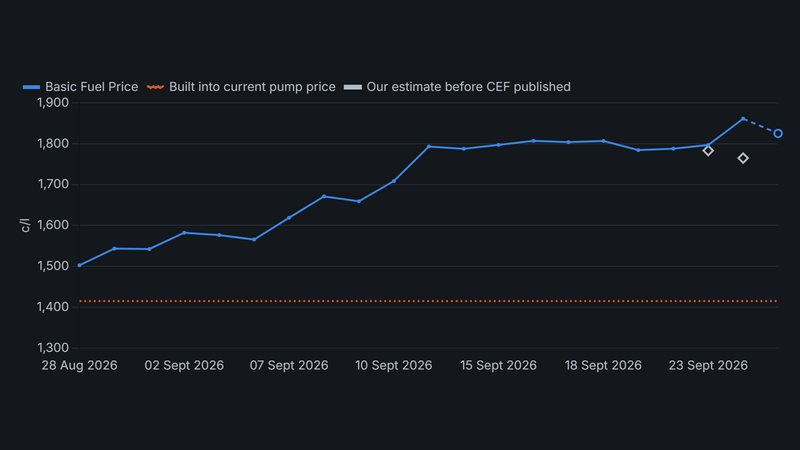
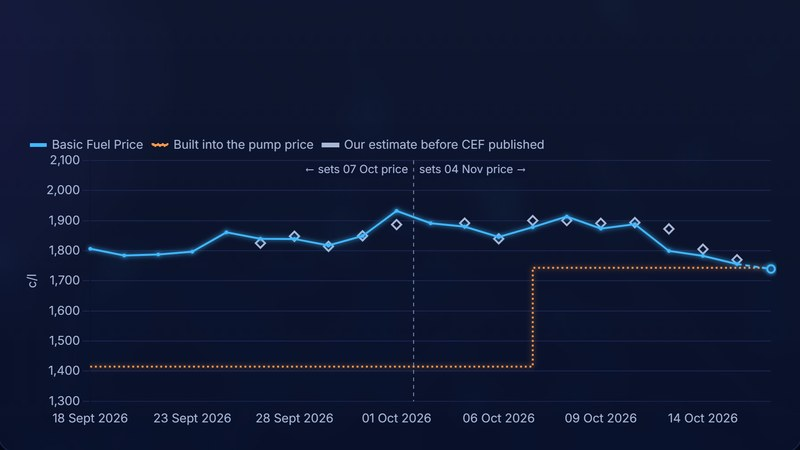
Fuel card: new image in the fuel site's redesigned look
Recaptured the first chart from fuel.psyphin.co.za after its navy,
glowing redesign; alt text now mentions the price built into the pump
price, which the chart shows.

Claude-Session: https://claude.ai/code/session_01SrKBiJbaQpZ1D1r5zsGLX4

diff --git a/projects.js b/projects.js
@@ -16,7 +16,7 @@
 //                 Status tags: green "Actively maintained" / "Endurance testing"; amber "In progress" /
 //                 "Prototyping" / "In testing" / "Re-designing" / "Under construction" / "Scenario testing"; grey "Complete".
 window.PROJECTS = [
-  { kind: "tool", title: "SA Fuel Price Preview", description: "Fuel price predictions for South Africa, so you know what's coming at the pump before the official announcement.", url: "https://fuel.psyphin.co.za/", cta: "View predictions", image: "assets/img/projects/fuel-chart.jpg", imageAlt: "Chart of the daily Basic Fuel Price rising through the review period, with estimated days marked", updated: "Live data, updated hourly", tags: ["Data", "South Africa", { label: "Actively maintained", color: "green" }] },
+  { kind: "tool", title: "SA Fuel Price Preview", description: "Fuel price predictions for South Africa, so you know what's coming at the pump before the official announcement.", url: "https://fuel.psyphin.co.za/", cta: "View predictions", image: "assets/img/projects/fuel-chart.jpg", imageAlt: "Chart of the daily Basic Fuel Price against the price built into the pump price, with estimated days marked", updated: "Live data, updated hourly", tags: ["Data", "South Africa", { label: "Actively maintained", color: "green" }] },
   { kind: "tool", title: "SA Towing Check", description: "Is your car or bakkie plus trailer legal? Checks your licence code, trailer brakes, speed limit and overloading, plus payload and towing ratings, with a source for every rule.", url: "https://towing.psyphin.co.za/", cta: "Check your rig", image: "assets/img/projects/sa-towing-check.jpg", imageAlt: "Side-view diagram of a bakkie towing a trailer, with the mass on each axle and on the tow ball", updated: "Launched 29 Sep 2026", tags: ["Towing", "South Africa", { label: "Actively maintained", color: "green" }] },
   { kind: "tool", title: "4x4 Tyre Pressures", description: "A starting tyre-pressure range for your 4x4's tyres, load and terrain, from tyre-maker load tables and published guidance, with a source for every number. Works offline.", url: "https://tyres.psyphin.co.za/", cta: "Work out pressures", image: "assets/img/projects/sa-tyre-pressures.jpg", imageAlt: "Two 4x4s on the crest of a red sand dune at the Amam Dunes, Northern Cape", updated: "Started 8 Oct 2026", tags: ["4x4", "South Africa", { label: "Actively maintained", color: "green" }] },
   { kind: "tool", title: "Winch Planning and Sizing", description: "How hard your winch has to pull to get you out, what a double or triple line does, and what your winch and battery go through, with a source for every number.", url: "https://winching.psyphin.co.za/", cta: "Size your recovery", image: "assets/img/projects/winch-recovery-sizing.jpg", imageAlt: "Drawing of a 4x4 bogged in mud on a slope, winching itself out with a double line through a snatch block at a tree 15 m away", updated: "Started 11 Sep 2026", tags: ["4x4", "Recovery", { label: "Actively maintained", color: "green" }] },

diff --git a/CLAUDE.md b/CLAUDE.md
@@ -41,7 +41,7 @@ Add **one line** to the array in `projects.js`:
 { title: "My New Thing", description: "What it does in a sentence.", url: "https://example.com", cta: "Open", tags: ["Tag", { label: "Actively maintained", color: "green" }] },
 ```
 
-- `title` and `description` are required; `kind`, `url`, `cta` (button text, default "Open"), `tags`, `image` + `imageAlt` (a 16:9 photo across the top of the card, kept in `assets/img/projects/`) and `updated` (a short grey line above the button, e.g. "Updated 25 Sep 2026") are optional. **Update the `updated` date when a project moves on.** The fuel card's image is a crop of the live site's first chart (captured at a 900 px-wide window, 2x scale, placed on the chart panel's colour), so refresh it now and then. A project with no `url` gets a card with no button (used for projects with no public page, such as a private repo).
+- `title` and `description` are required; `kind`, `url`, `cta` (button text, default "Open"), `tags`, `image` + `imageAlt` (a 16:9 photo across the top of the card, kept in `assets/img/projects/`) and `updated` (a short grey line above the button, e.g. "Updated 25 Sep 2026") are optional. **Update the `updated` date when a project moves on.** The fuel card's image is a crop of the live site's first chart (since 2026-10-18 in the fuel site's navy "deep space" look: captured with headless Chrome at a 900 px-wide window, 2x scale, the panel's heading text hidden, a 16:9 area of the chart panel ending just above its bottom edge, scaled to 800x450), so refresh it now and then. A project with no `url` gets a card with no button (used for projects with no public page, such as a private repo).
 - A tag is a plain string (blue pill), or `{ label, color }` for a coloured pill. Status tags: green for live, finished work that is still kept up to date ("Actively maintained") or built work in its final long-run test ("Endurance testing"); amber for anything still under way ("In progress", "Prototyping", "In testing", "Re-designing", "Under construction", "Scenario testing"); grey for finished work that needs no changes ("Complete"). Current (2026-10-08, the owner's calls): fuel and towing "Actively maintained", DMR hotspot "Endurance testing", SHERP crawler and battery monitor "Prototyping", RC remote "Re-designing", winch sizing and ropes "Under construction", tyre pressures "Scenario testing" (since 2026-10-12), EV vs Fuel Cost "In testing" (since 2026-10-13). To add another colour, add a `.tags li.tag--<color>` rule in `css/style.css`.
 - Order in the array = order on the page.
 - **Tools vs projects:** `kind: "tool"` puts a card in the **Tools** section (`#tool-grid`, above Projects): online tools people use, currently the fuel site, the towing checker, the 4x4 tyre pressure calculator, the winch & recovery sizing calculator, Ropes and Shackles and EV vs Fuel Cost (evcost.psyphin.co.za, since 2026-10-13). Everything else is a build project in **Projects** (`#project-grid`). Both tools' header pills read "← More PsyPhin tools" and link to `https://psyphin.co.za/#tools`; a new tool should do the same.
